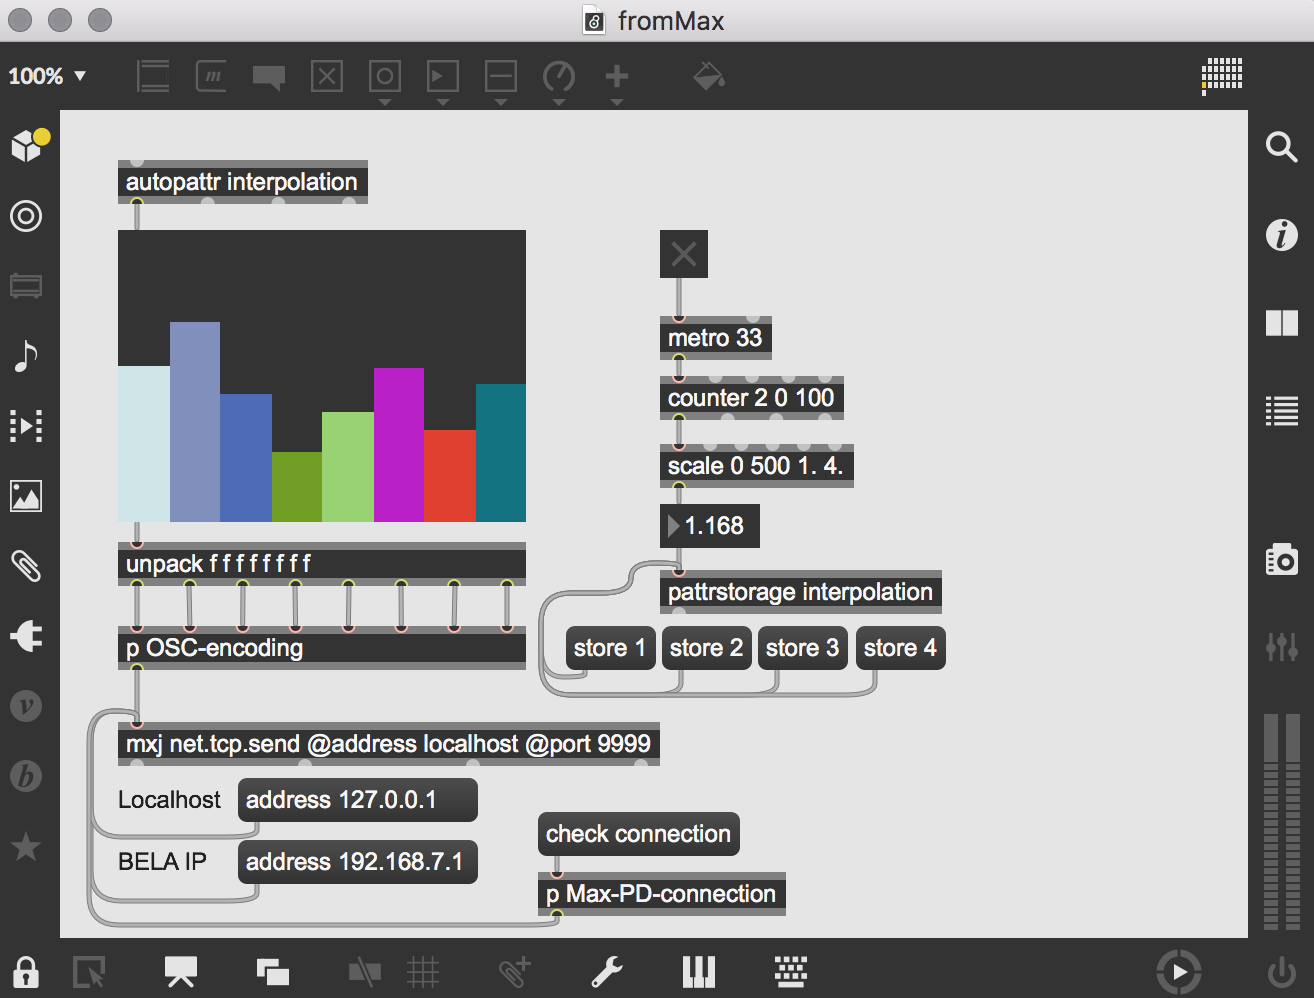
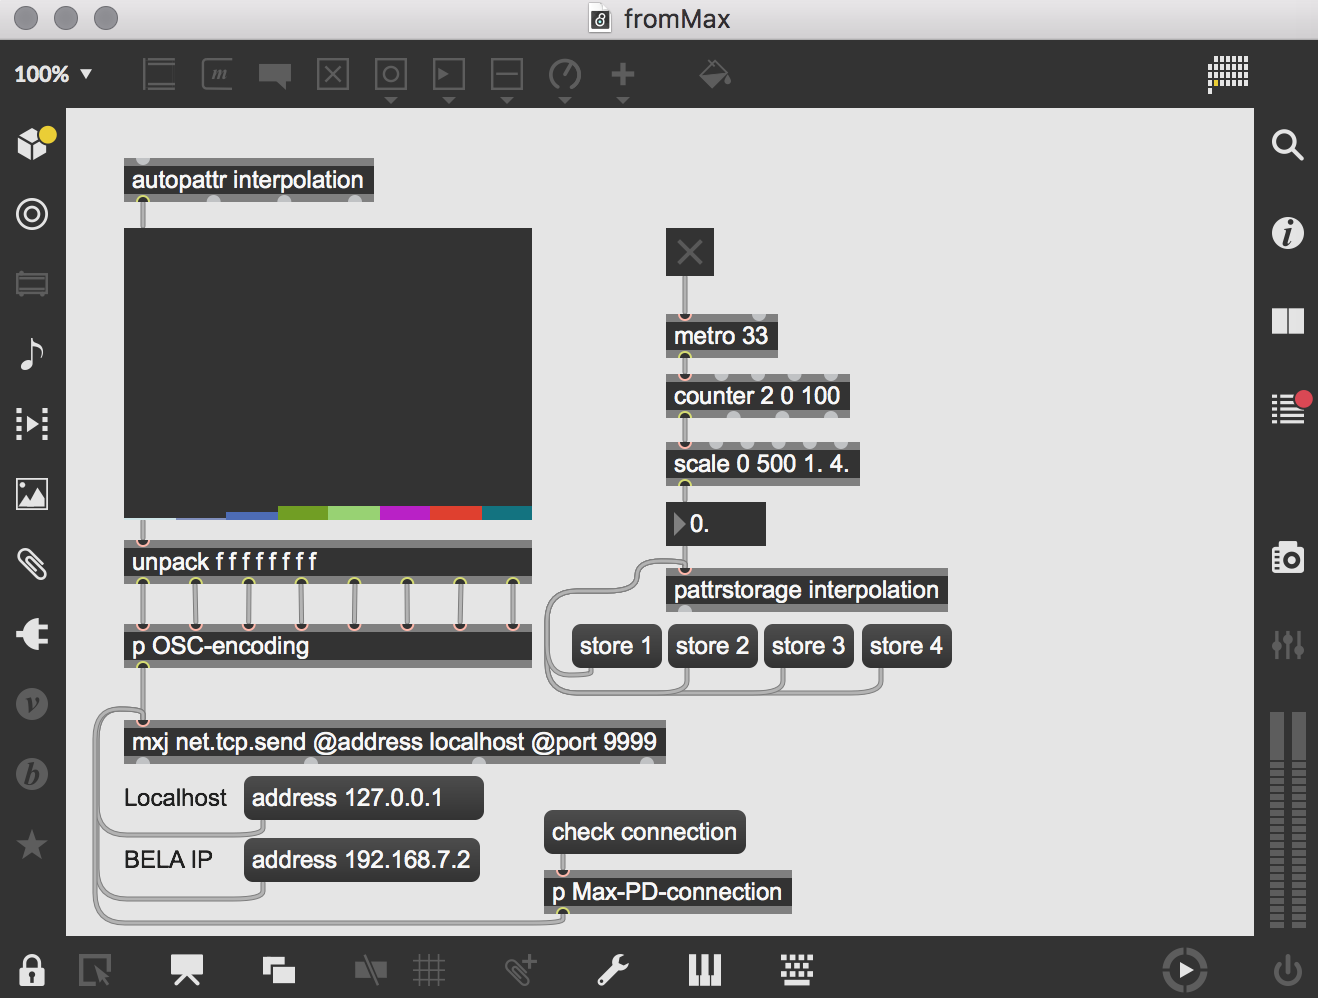
updated korrekt IP on BELA board

diff --git a/README.md b/README.md
@@ -274,7 +274,7 @@ Infrastruktur for at sende data fra BELA til Max/MSP. Se [video demonstration](h
 1. Følg guide for at lave et Pd project
 2. Rediger **_main.pd** til at sende data via **netsend** objektet
 ![](./media/BELAtoMax_main.png)
-3. Tjek BELA's ip addresse i netværks systemindstillinger er den samme som i **connect** beskeden til **netsend** objektet.
+3. Idet vi ønsker at kommunikere fra BELA til Max/MSP skal vi bruge "BELA host computer"-ip addresse der altid er 192.168.7.1, og kan findes i netværks systemindstillingerne. indsæt denne Ip i **connect** beskeden til **netsend** objektet.
 ![](./media/Netværksindstillinger.png)
 4. lav en Max patcher til at modtage data via **udpreceive** objektet
 ![](./media/PdtoMax.png)
@@ -287,7 +287,7 @@ infrastruktur for at sende data fra Max/MSP til BELA
 1. Følg guide for at lave et Pd project
 2. Rediger **_main.pd** til at modtage data via **netreceive** objektet
 ![](./media/MaxtoBELA_main.png)
-3. Tjek BELA's ip addresse i netværks systemindstillinger er den samme som i **connect** beskeden til **netsend** objektet.
+	3. Idet vi ønsker at kommunikere fra Max/MSP til BELA skal vi nu bruge "BELA boardets"-ip addresse der altid er 192.168.7.2, sikre dig at denne er indstillet til korrekt i din Max patcher.
 4. lav en Max patcher til at sende data via **mxj net.tcp.send** objektet
 ![](./media/fromMax.png)
 5. Byg et hardware setup med otte analoge output componenter og forbind deres data kabler til analog out pin 0 1 2 3 4 5 6 7 på BELA boardet.
@@ -304,3 +304,4 @@ infrastruktur for at sende data fra Max/MSP til BELA
 - [Miller Puckette Max/MSP & Pure Data](https://futureofcoding.org/episodes/047.html)
 - [UDP & OSC kommunikation](https://frieder-weiss.de/eyecon/Manual/udp-osc.htm)
 - [PdPortNPM.js](https://npm.io/package/port)
+- [BELA basic send receive](https://forum.bela.io/d/498-basic-netsend-netreceive/12)
